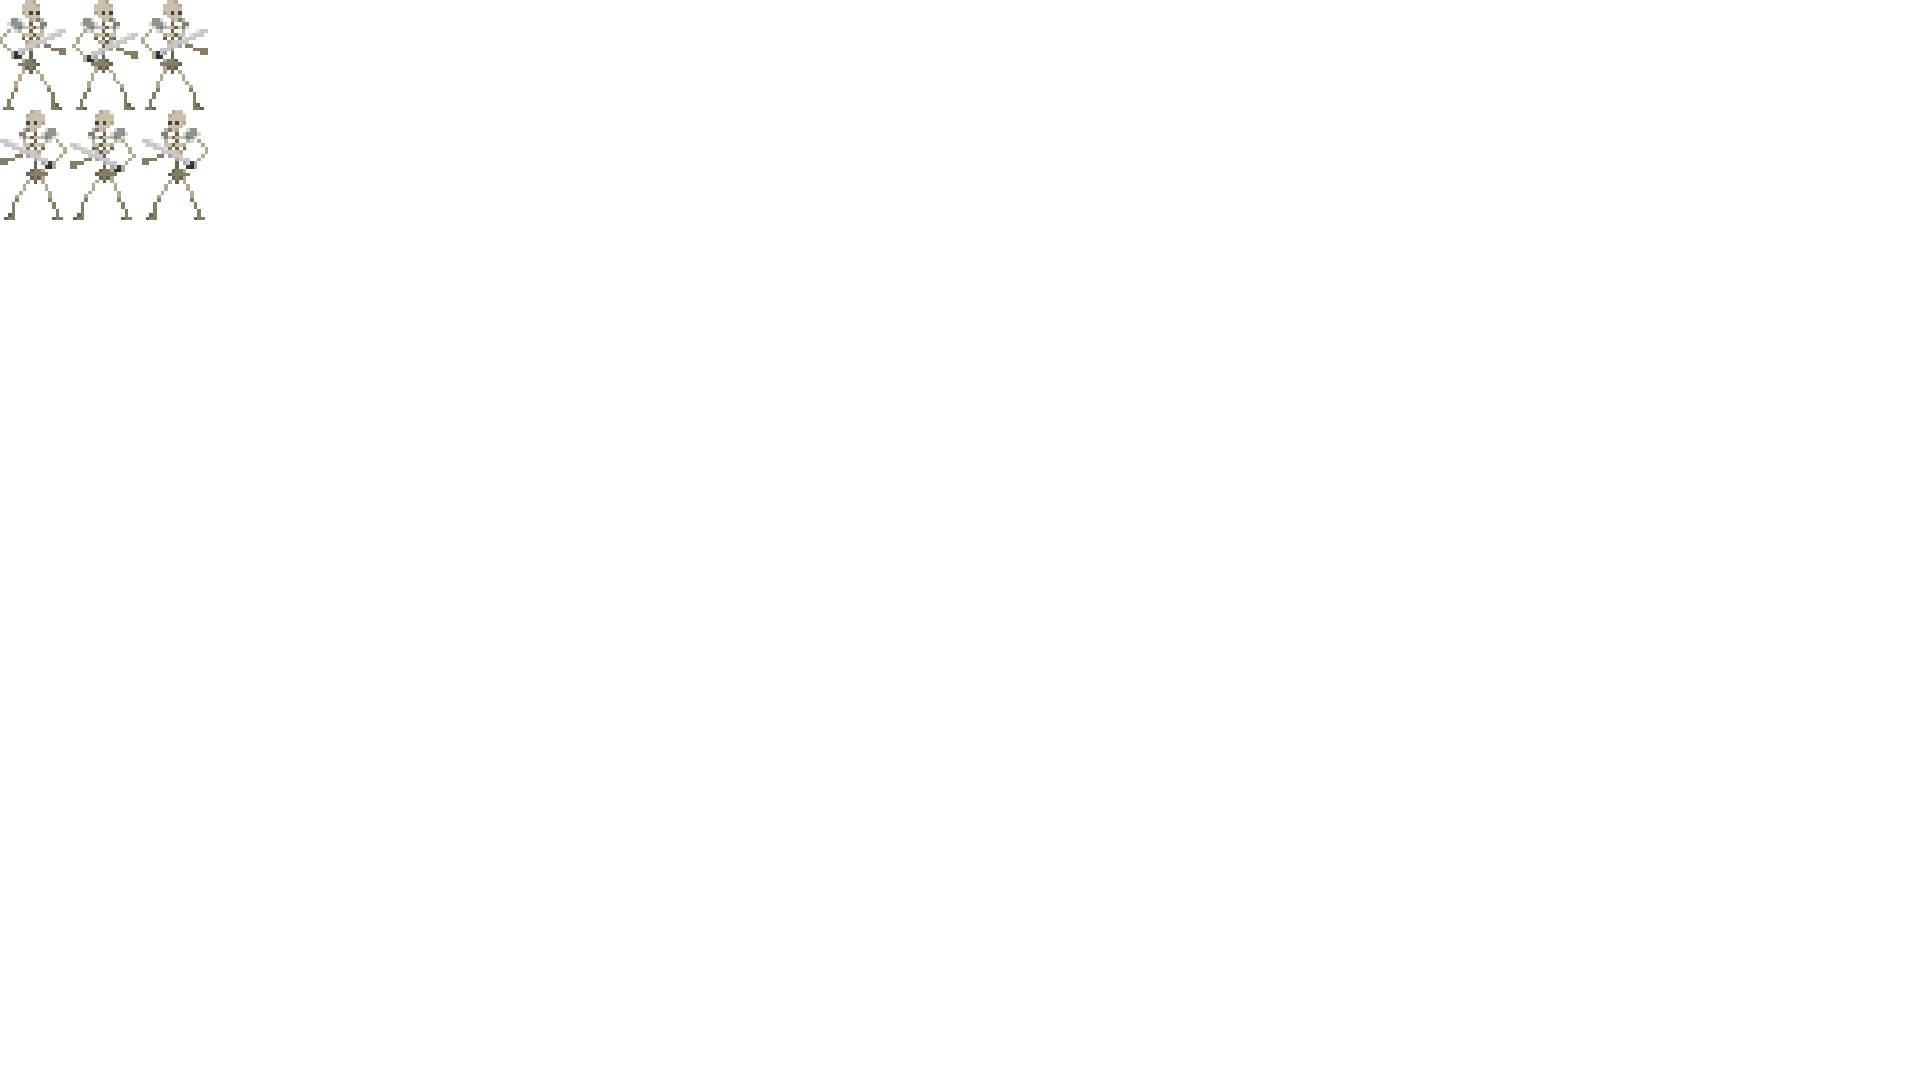
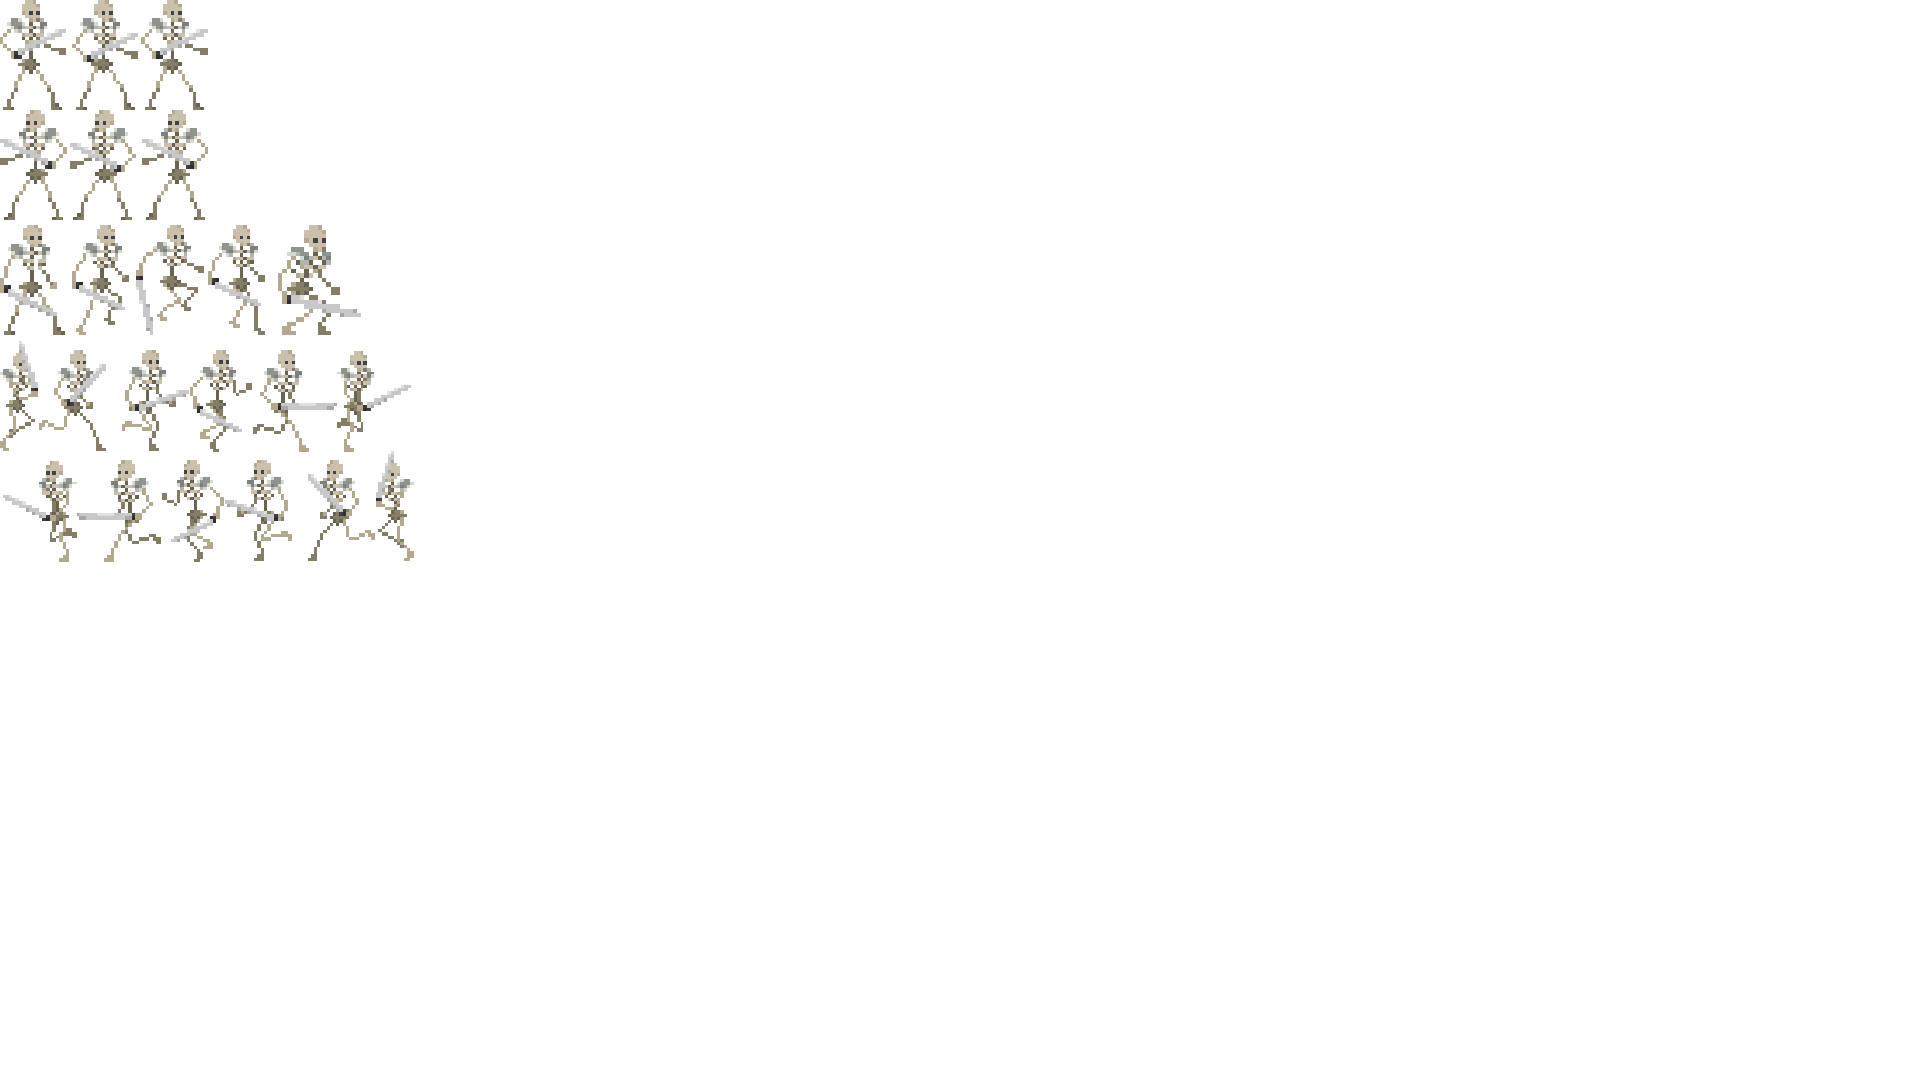
Fixed Animations

Changed region(s): [[0.0, 0.2139, 0.2188, 0.5194]]

diff --git a/Game/Source/Player.cpp b/Game/Source/Player.cpp
@@ -18,42 +18,42 @@ Player::Player() : Module()
 
 	idleAnimR.speed = 0.05f;
 	idleAnimR.loop = true;
-	idleAnimR.PushBack({ 0,593,84,93 });
-	idleAnimR.PushBack({ 0,492,83,93 });
-	idleAnimR.PushBack({ 3,394,79,94 });
-	idleAnimR.PushBack({ 4,300,80,94 });
+	idleAnimR.PushBack({ 0,0,66,110 });
+	idleAnimR.PushBack({ 72,0,66,110 });
+	idleAnimR.PushBack({ 141,0,67,110 });
+	//idleAnimR.PushBack({ 4,300,80,94 });
 
 	idleAnimL.speed = 0.05f;
 	idleAnimL.loop = true;
-	idleAnimL.PushBack({ 468,593,84,93 });
-	idleAnimL.PushBack({ 469,492,83,93 });
-	idleAnimL.PushBack({ 470,394,79,94 });
-	idleAnimL.PushBack({ 468,300,80,94 });
+	idleAnimL.PushBack({ 0,110,67,110 });
+	idleAnimL.PushBack({ 70,110,66,110 });
+	idleAnimL.PushBack({ 142,110,66,110 });
 
 	jumpAnim.speed = 0.05f;
 	jumpAnim.loop = false;
-	jumpAnim.PushBack({ 133,292,86,95 });
-	jumpAnim.PushBack({ 127,593,73,93 });
-	jumpAnim.PushBack({ 121,492,85,93 });
-	jumpAnim.PushBack({ 143,393,66,95 });
+	jumpAnim.PushBack({ 0,225,65,110 });
+	jumpAnim.PushBack({ 72,225,57,110 });
+	jumpAnim.PushBack({ 136,225,68,111 });
+	jumpAnim.PushBack({ 208,225,57,110 });
+	jumpAnim.PushBack({ 278,225,83,110 });
 
 	rightAnim.speed = 0.05f;
 	rightAnim.loop = true;
-	rightAnim.PushBack({243,592,75,94});
-	rightAnim.PushBack({ 249,492,69,93 });
-	rightAnim.PushBack({ 249,394,77,94 });
-	rightAnim.PushBack({ 243,292,75,94 });
-	rightAnim.PushBack({ 248,187,70,94 });
-	rightAnim.PushBack({ 251,80,67,94 });
+	rightAnim.PushBack({ 0,341,38,110  });
+	rightAnim.PushBack({ 39,350,67,101 });
+	rightAnim.PushBack({ 122,350,67,101 });
+	rightAnim.PushBack({ 190,350,62,102 });
+	rightAnim.PushBack({ 253,350,84,102 });
+	rightAnim.PushBack({ 337,351,74,101 });
 
 	leftAnim.speed = 0.05f;
 	leftAnim.loop = true;
-	leftAnim.PushBack({358,592,75,94});
-	leftAnim.PushBack({358,492,69,93});
-	leftAnim.PushBack({350,394,77,94});
-	leftAnim.PushBack({358,292,75,94});
-	leftAnim.PushBack({358,187,70,94});
-	leftAnim.PushBack({358,80,67,94});
+	leftAnim.PushBack({3,461,74,101});
+	leftAnim.PushBack({77,460,84,102});
+	leftAnim.PushBack({162,460,62,102});
+	leftAnim.PushBack({225,460,67,101});
+	leftAnim.PushBack({308,460,67,101});
+	leftAnim.PushBack({ 376,451,38,110 });
 }
 
 Player::~Player()
@@ -65,8 +65,8 @@ bool Player::Start()
 {
 	cp.x = 70;
 	cp.y = 500;
-	cp.w = 50;
-	cp.h = 93;
+	cp.w = 66;
+	cp.h = 110;
 	vcy = 0;
 	vcx = 2.0f;
 
@@ -78,7 +78,7 @@ bool Player::Start()
 	facingLeft = false;
 	facingRight = true;
 	//ANIMATION FILE
-	character = app->tex->Load("Assets/Player/animations.png");
+	character = app->tex->Load("Assets/Player/anim1.png");
 	currentAnimation = &idleAnimR;
 
 	return true;

diff --git a/Game/Source/Scene.cpp b/Game/Source/Scene.cpp
@@ -37,7 +37,6 @@ bool Scene::Awake()
 // Called before the first frame
 bool Scene::Start()
 {
-	//if (active) {
 		app->player->active = true;
 		app->scene->active = true;
 		app->collisions->active = true;
@@ -49,7 +48,7 @@ bool Scene::Start()
 		app->map->Load("map.tmx");
 
 		//app->audio->PlayMusic("Assets/audio/Music/music_spy.ogg");
-	//}
+
 	return true;
 }
 
@@ -62,24 +61,22 @@ bool Scene::PreUpdate()
 // Called each loop iteration
 bool Scene::Update(float dt)
 {
-	//if (active) {
 		//camera movement
-
 		//all draws
-		app->render->DrawTexture(backg, 0, 0);
-		app->render->DrawTexture(portal, 2325, 290);
-		app->map->Draw();
+	app->render->DrawTexture(backg, 0, 0);
+	app->render->DrawTexture(portal, 2325, 290);
+	app->map->Draw();
 
 		// L03: DONE 7: Set the window title with map/tileset info
-		SString title("Map:%dx%d Tiles:%dx%d Tilesets:%d",
-			app->map->data.width, app->map->data.height,
-			app->map->data.tileWidth, app->map->data.tileHeight,
-			app->map->data.tilesets.count());
+	SString title("Map:%dx%d Tiles:%dx%d Tilesets:%d",
+		app->map->data.width, app->map->data.height,
+		app->map->data.tileWidth, app->map->data.tileHeight,
+		app->map->data.tilesets.count());
 
-		app->win->SetTitle(title.GetString());
+	app->win->SetTitle(title.GetString());
 
-		app->map->LoadColliders();
-	//}
+	app->map->LoadColliders();
+
 	return true;
 
 }
